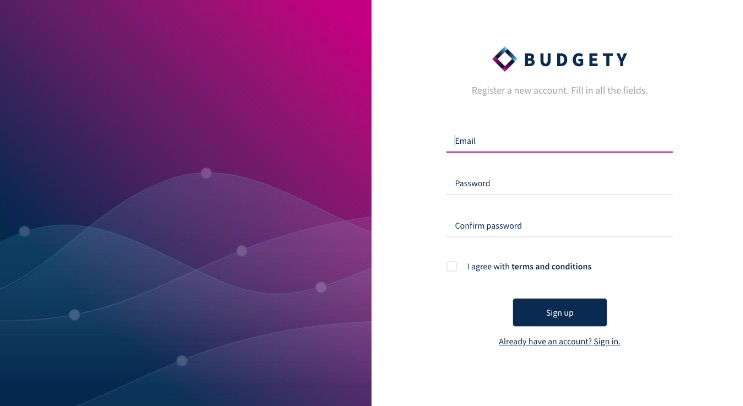
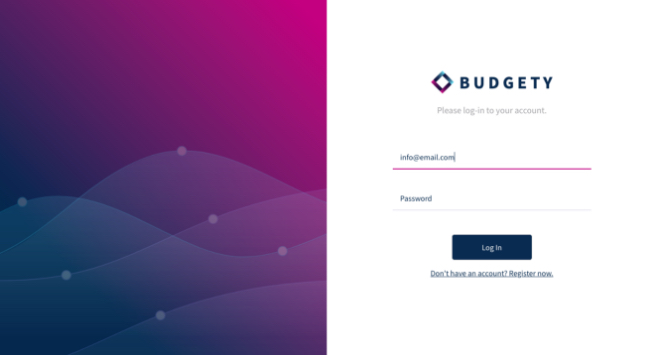
casehistory images

diff --git a/site/web/app/themes/filipporivolta/resources/views/partials/case-history/carousel-alt.blade.php b/site/web/app/themes/filipporivolta/resources/views/partials/case-history/carousel-alt.blade.php
@@ -3,9 +3,12 @@
       <img class="carousel-slider__item__image" src="@asset('images/budgety/budgety_01.jpg')" alt="budgety" />
     </div>
     <div class="carousel-slider__item">
-      <img class="carousel-slider__item__image" src="@asset('images/budgety/budgety_01.jpg')" alt="budgety" />
+      <img class="carousel-slider__item__image" src="@asset('images/budgety/budgety_02.jpg')" alt="budgety" />
     </div>
     <div class="carousel-slider__item">
-      <img class="carousel-slider__item__image" src="@asset('images/budgety/budgety_01.jpg')" alt="budgety" />
+      <img class="carousel-slider__item__image" src="@asset('images/budgety/budgety_03.jpg')" alt="budgety" />
+    </div>
+    <div class="carousel-slider__item">
+      <img class="carousel-slider__item__image" src="@asset('images/budgety/budgety_04.jpg')" alt="budgety" />
     </div>
   </section>

diff --git a/site/web/app/themes/filipporivolta/resources/views/partials/case-history/carousel.blade.php b/site/web/app/themes/filipporivolta/resources/views/partials/case-history/carousel.blade.php
@@ -4,7 +4,8 @@
         <div class="swiper-wrapper">
             <!-- Slides -->
             <div class="swiper-slide"><img src="@asset('images/budgety/budgety_01.jpg')" alt="budgety" /></div>
-            <div class="swiper-slide"><img src="@asset('images/budgety/budgety_01.jpg')" alt="budgety" /></div>
-            <div class="swiper-slide"><img src="@asset('images/budgety/budgety_01.jpg')" alt="budgety" /></div>
+            <div class="swiper-slide"><img src="@asset('images/budgety/budgety_02.jpg')" alt="budgety" /></div>
+            <div class="swiper-slide"><img src="@asset('images/budgety/budgety_03.jpg')" alt="budgety" /></div>
+            <div class="swiper-slide"><img src="@asset('images/budgety/budgety_04.jpg')" alt="budgety" /></div>
         </div>
 </div>
